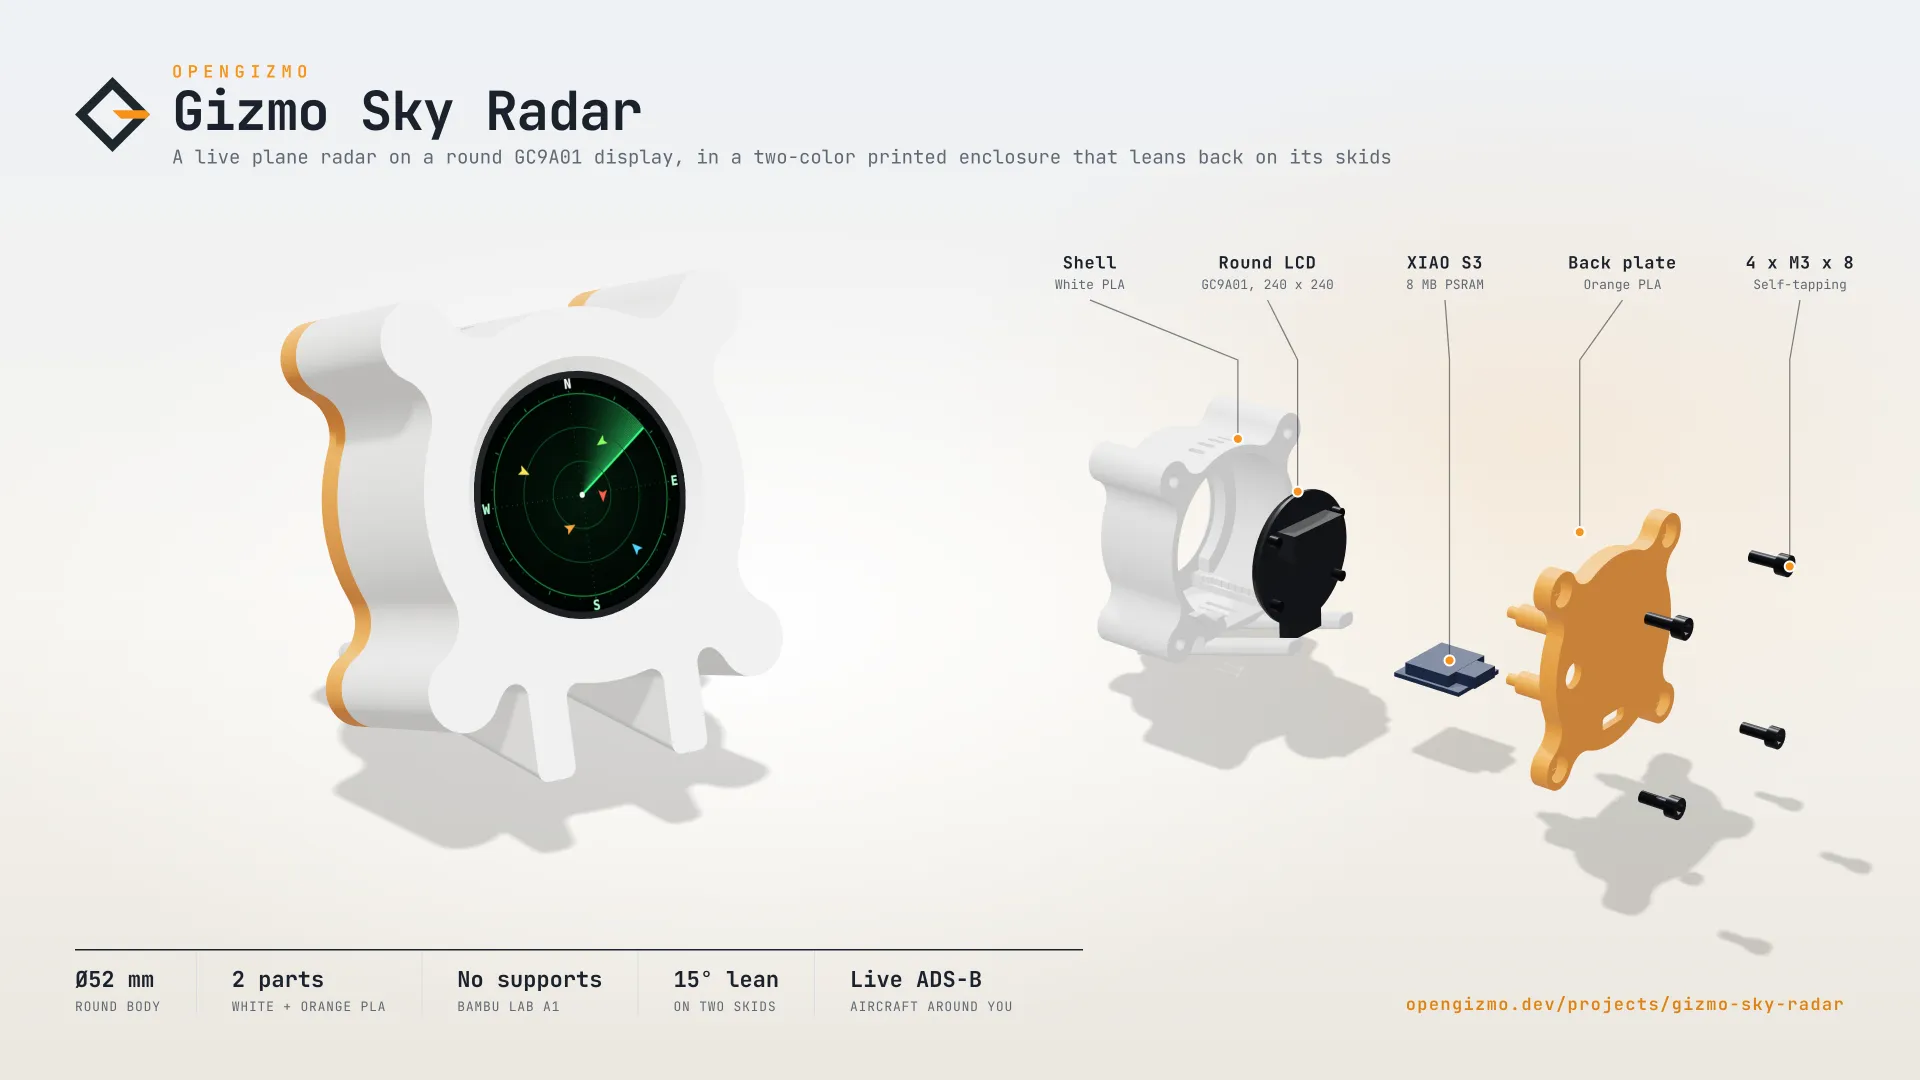
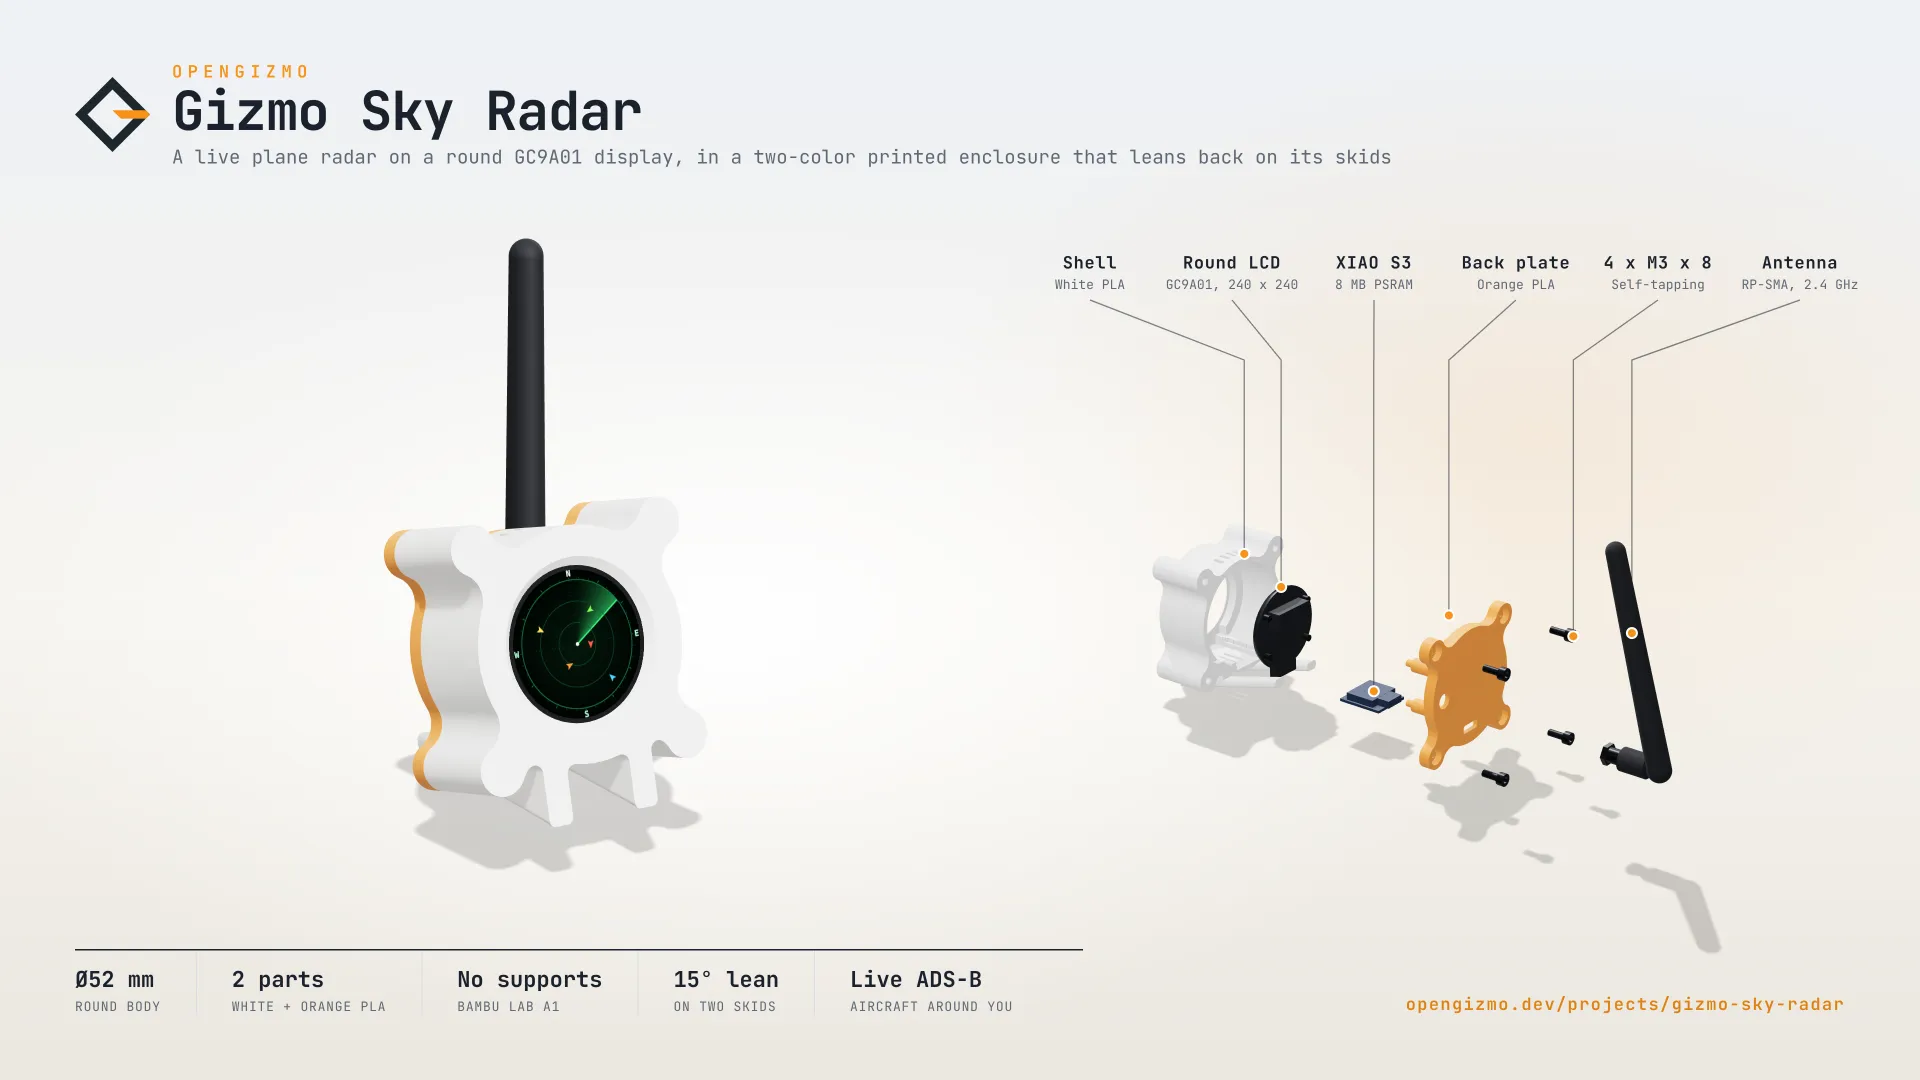
README: the enclosure render with the antenna
Claude-Session: https://claude.ai/code/session_01BeyeazZAMMbtmmhRdZGEuo

diff --git a/README.md b/README.md
@@ -7,7 +7,7 @@
 Gizmo Sky Radar is a two-part project that turns a Seeed Studio XIAO ESP32-S3 and a GC9A01 round display into a little radar screen that shows the aircraft flying around your home, live: ESP32 firmware that downloads the flight data from adsb.fi and draws it on the display, and a Nuxt 4 web app, built into the firmware, to set it up and watch the sky from your phone.
 
 <p>
-  <a href="https://opengizmo.dev/projects/gizmo-sky-radar"><img alt="The Gizmo Sky Radar in its white and orange printed enclosure, leaning back on its skids with the radar lit on its round screen, and pulled apart into the shell, the round display, the XIAO ESP32-S3, the back plate and four M3 screws" src="docs/enclosure-render.webp" width="800"></a>
+  <a href="https://opengizmo.dev/projects/gizmo-sky-radar"><img alt="The Gizmo Sky Radar in its white and orange printed enclosure, leaning back on its skids with the radar lit on its round screen and its antenna up, and pulled apart into the shell, the round display, the XIAO ESP32-S3, the back plate, four M3 screws and the antenna" src="docs/enclosure-render.webp" width="800"></a>
 </p>
 
 <p>
